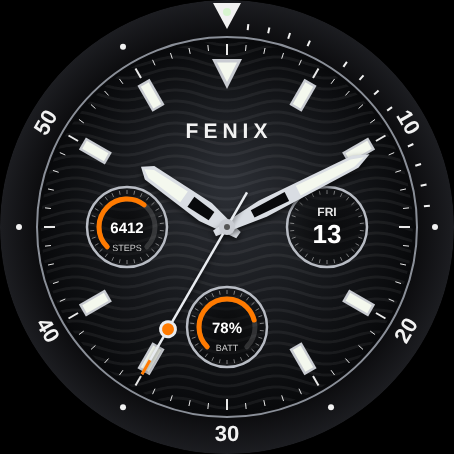
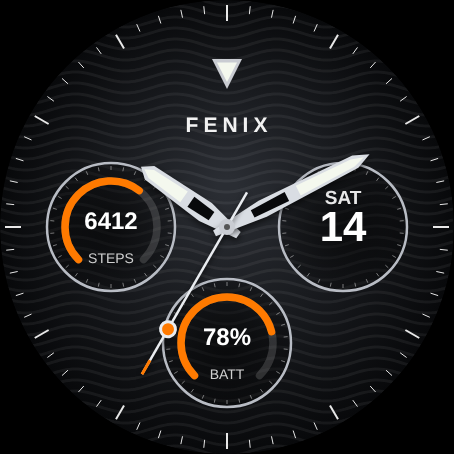
JKWFenix v1.0.1: remove on-screen bezel and batons, larger small dials
- Dial image: wave pattern and minute track run to the screen edge; the
  fenix 8 metal bezel now provides the 0-60 scale
- Baton hour markers removed; triangle at 12 kept
- Small dials enlarged (radius 64, 116 px from centre) with larger
  gauges and text
- Always-on view shows dim hour ticks instead of batons

Claude-Session: https://claude.ai/code/session_01NSsLgwiZMjqwBMKbrJTceH

diff --git a/README.md b/README.md
@@ -6,18 +6,19 @@ A dive-style analogue watch face for the Garmin fenix 8 AMOLED 47mm, written in 
 
 *Design mockup. On the watch, Garmin's own fonts are used.*
 
-## Design
+## Design (v1.0.1)
 
-- Black dial with a wave pattern, and FENIX under 12
-- Dive bezel with a 0 to 60 minute scale; 20, 30 and 40 are turned to read the right way up
-- Baton hour markers with lume, and a triangle at 12
+- Black wave-pattern dial running to the edge of the screen; the fenix 8's own metal bezel provides the 0 to 60 scale
+- Minute track at the screen edge, with a triangle at 12 and FENIX beneath it
 - Skeleton sword hour and minute hands with lume tips
 - Seconds hand with a bright orange dot, shown after you raise your wrist and hidden when the watch dims to save battery
-- Three small dials:
+- Three large small dials:
   - 3 o'clock: date (day and number)
   - 6 o'clock: battery percentage with an orange gauge, turning red below 20%
   - 9 o'clock: step count with an orange gauge showing progress to your daily goal
-- Always-on display: outlined hands and dim markers only, moved slightly each minute to protect the AMOLED screen
+- Always-on display: outlined hands, dim hour ticks and the triangle at 12, moved slightly each minute to protect the AMOLED screen
+
+Version 1.0.0 had an on-screen dive bezel and baton hour markers; see `docs/mockups` for the design history.
 
 ## Building and testing
 

diff --git a/docs/mockups/README.md b/docs/mockups/README.md
@@ -1,9 +1,9 @@
-# Proposed design changes (not built yet)
+# Design mockups
 
-The live watch face (v1.0.0) is unchanged. These are mockups for a possible v1.0.1, on hold while the current version is tested for about a week.
+Mockups considered for v1.0.1. **Option C was built as v1.0.1.**
 
 - `option-a-no-bezel.png`: the on-screen dive bezel removed, wave dial and minute track run to the screen edge.
 - `option-b-no-bezel-no-batons-larger-dials.png`: as option A, plus the baton hour markers removed and the three small dials made about a third larger.
 - `option-b-source.html`: the drawing used to make option B, to regenerate the dial image when it is built.
-- `option-c-larger-dials.png`: as option B, with the small dials made larger again (radius 64 instead of 54, set 116 px from centre). **This is the current preferred option.**
+- `option-c-larger-dials.png`: as option B, with the small dials made larger again (radius 64 instead of 54, set 116 px from centre). **Built as v1.0.1.**
 - `option-c-source.html`: the drawing used to make option C.
